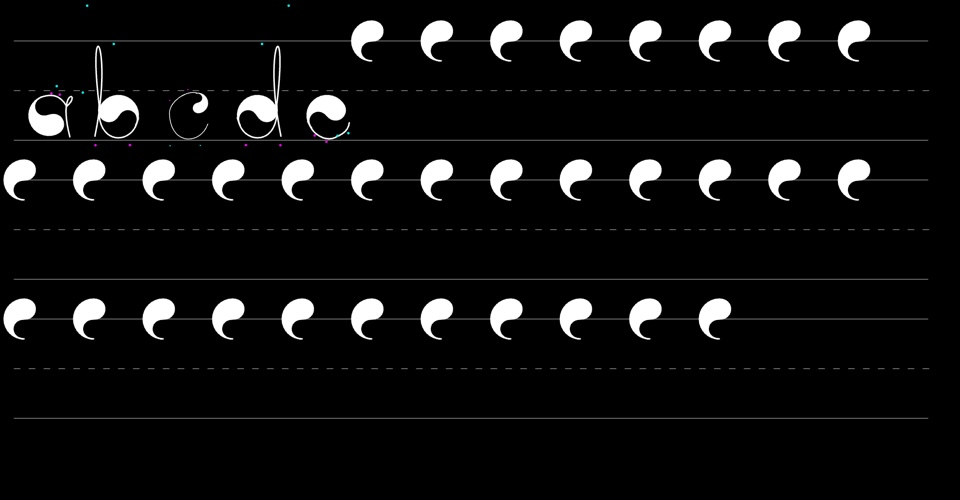
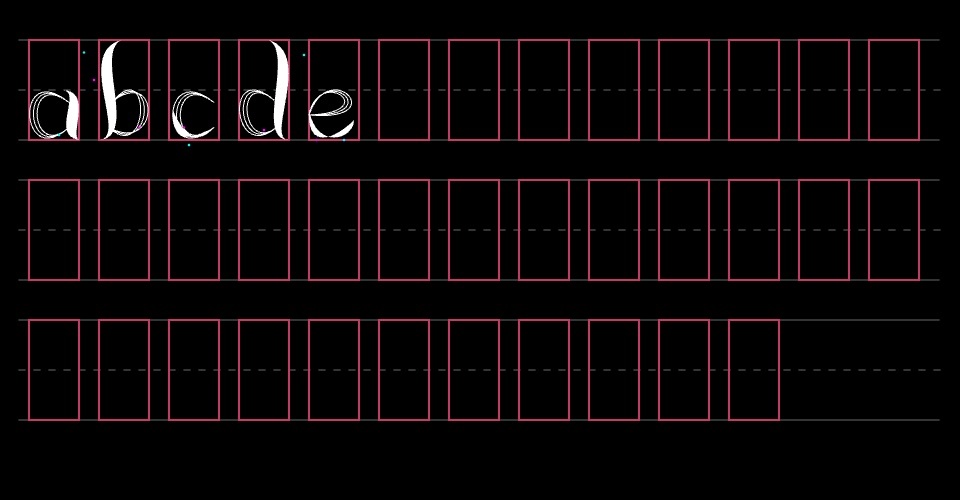
Continued filling alphabet
Add more letters to the layered bezier alphabet. Made a slight change to the stem style.

diff --git a/letters.js b/letters.js
@@ -17,33 +17,37 @@ const alphabet = {
     // "bezierOne3X": 35,
     // "bezierOne3Y": 30,
     // "bezierOne4X": 40,
-    // "bezierOne4Y": 20,
+    // "bezierOne4Y": 15,
 
     // "bezierTwo2X": 55,
     // "bezierTwo2Y": -10,
     // "bezierTwo3X": 30,
     // "bezierTwo3Y": -50,
-    // "bezierTwo4X": 25,
+    // "bezierTwo4X": 20,
     // "bezierTwo4Y": -55
 
-    "AnchorX": 80,
-    "AnchorY": -40,
-    "firstControlX": -50,
-    "firstControlY": -80,
-    "secondControlX": 10,
-    "secondControlY": 175,
+    "oneVar1": 80,
+    "oneVar2": -25,
+    "oneVar3": -30,
+    "oneVar4": -115,
+    "oneVar5": -20,
+    "oneVar6": 115,
+    "oneVar7": 80,
+    "oneVar8": 25,
   
-    "secondAnchorX": 80,
-    "secondAnchorY": -40,
-    "twoFirstControlX": 70,
-    "twoFirstControlY": -75,
-    "twoSecondControlX": 90,
-    "twoSecondControlY": 180
+    "twoVar1": 65,
+    "twoVar2": -50,
+    "twoVar3": 130,
+    "twoVar4": -70,
+    "twoVar5": 60,
+    "twoVar6": 40,
+    "twoVar7": 80,
+    "twoVar8": 50
   },
   "B": {
     // "teardropScaleX": -1,
     // "teardropScaleY": 1,
-    // "teardropX": 50,
+    // "teardropX": 55,
     // "teardropY": 150,
     // "teardropRotate": 60,
 
@@ -51,29 +55,33 @@ const alphabet = {
     // "bezierOne2Y": 50,
     // "bezierOne3X": 75,
     // "bezierOne3Y": -10,
-    // "bezierOne4X": 0,
-    // "bezierOne4Y": -45,
+    // "bezierOne4X": 10,
+    // "bezierOne4Y": -50,
 
-    // "bezierTwo2X": -60,
-    // "bezierTwo2Y": -165,
-    // "bezierTwo3X": -20,
-    // "bezierTwo3Y": -80,
-    // "bezierTwo4X": -110,
-    // "bezierTwo4Y": - 100
+    // "bezierTwo2X": -80,
+    // "bezierTwo2Y": -90,
+    // "bezierTwo3X": -40,
+    // "bezierTwo3Y": -70,
+    // "bezierTwo4X": -115,
+    // "bezierTwo4Y": - 90
 
-    "AnchorX": 10,
-    "AnchorY": 30,
-    "firstControlX": 75,
-    "firstControlY": -180,
-    "secondControlX": 130,
-    "secondControlY": 130,
+    "oneVar1": 30,
+    "oneVar2": -30,
+    "oneVar3": 105,
+    "oneVar4": -115,
+    "oneVar5": 100,
+    "oneVar6": 100,
+    "oneVar7": 20,
+    "oneVar8": 25,
   
-    "secondAnchorX": 10,
-    "secondAnchorY": 30,
-    "twoFirstControlX": 5,
-    "twoFirstControlY": -250,
-    "twoSecondControlX": 35,
-    "twoSecondControlY": -125
+    "twoVar1": 0,
+    "twoVar2": 50,
+    "twoVar3": 80,
+    "twoVar4": 25,
+    "twoVar5": -30,
+    "twoVar6": -125,
+    "twoVar7": 25,
+    "twoVar8": -150
   },
   "C": {
     // "teardropScaleX": .5,
@@ -96,70 +104,91 @@ const alphabet = {
     // "bezierTwo4X": -25,
     // "bezierTwo4Y": -90
 
-    "AnchorX": 95,
-    "AnchorY": 0,
-    "firstControlX": -10,
-    "firstControlY": -155,
-    "secondControlX": -40,
-    "secondControlY": 160,
-    
-    "secondAnchorX": 0,
-    "secondAnchorY": 0,
-    "twoFirstControlX": 0,
-    "twoFirstControlY": 0,
-    "twoSecondControlX": 0,
-    "twoSecondControlY": 0
+    "oneVar1": 90,
+    "oneVar2": -25,
+    "oneVar3": -20,
+    "oneVar4": -115,
+    "oneVar5": -20,
+    "oneVar6": 115,
+    "oneVar7": 90,
+    "oneVar8": 25,
+  
+    "twoVar1": 8,
+    "twoVar2": -10,
+    "twoVar3": 30,
+    "twoVar4": 25,
+    "twoVar5": 40,
+    "twoVar6": 60,
+    "twoVar7": 70,
+    "twoVar8": 25
   },
   "D": {
-    "AnchorX": 90,
-    "AnchorY": 25,
-    "firstControlX": 25,
-    "firstControlY": -180,
-    "secondControlX": -60,
-    "secondControlY": 130,
+    "oneVar1": 70,
+    "oneVar2": -30,
+    "oneVar3": -30,
+    "oneVar4": -115,
+    "oneVar5": -15,
+    "oneVar6": 100,
+    "oneVar7": 75,
+    "oneVar8": 25,
   
-    "secondAnchorX": 90,
-    "secondAnchorY": 25,
-    "twoFirstControlX": 95,
-    "twoFirstControlY": -250,
-    "twoSecondControlX": 65,
-    "twoSecondControlY": -125
+    "twoVar1": 100,
+    "twoVar2": 50,
+    "twoVar3": 50,
+    "twoVar4": 30,
+    "twoVar5": 130,
+    "twoVar6": -120,
+    "twoVar7": 40,
+    "twoVar8": -150
     
     // "teardropScaleX": 1,
     // "teardropScaleY": 1,
-    // "teardropX": 50,
+    // "teardropX": 45,
     // "teardropY": 150,
     // "teardropRotate": 60,
 
-    // "bezierOne2X": 40,
+    // "bezierOne2X": 35,
     // "bezierOne2Y": 50,
-    // "bezierOne3X": 75,
-    // "bezierOne3Y": -10,
-    // "bezierOne4X": 0,
-    // "bezierOne4Y": -45,
+    // "bezierOne3X": 70,
+    // "bezierOne3Y": 0,
+    // "bezierOne4X": 30,
+    // "bezierOne4Y": -40,
 
-    // "bezierTwo2X": -160,
-    // "bezierTwo2Y": -165,
-    // "bezierTwo3X": -120,
-    // "bezierTwo3Y": -80,
-    // "bezierTwo4X": 60,
-    // "bezierTwo4Y": -20
+    // "bezierTwo2X": -10,
+    // "bezierTwo2Y": -75,
+    // "bezierTwo3X": -75,
+    // "bezierTwo3Y": -95,
+    // "bezierTwo4X": -105,
+    // "bezierTwo4Y": -90
   },
 
   "E": {
-    "AnchorX": 5,
-    "AnchorY": -10,
-    "firstControlX": 90,
-    "firstControlY": -120,
-    "secondControlX": 120,
-    "secondControlY": 60,
+    "oneVar1": 0,
+    "oneVar2": 0,
+    "oneVar3": 150,
+    "oneVar4": -5,
+    "oneVar5": 20,
+    "oneVar6": -100,
+    "oneVar7": 0,
+    "oneVar8": 0,
     
-    "secondAnchorX": 5,
-    "secondAnchorY": -10,
-    "twoFirstControlX": 120,
-    "twoFirstControlY": -150,
-    "twoSecondControlX": 100,
-    "twoSecondControlY": 175
+    "twoVar1": 0,
+    "twoVar2": -10,
+    "twoVar3": 15,
+    "twoVar4": 50,
+    "twoVar5": 70,
+    "twoVar6": 50,
+    "twoVar7": 70,
+    "twoVar8": 10
+
+    // "twoVar1": 100,
+    // "twoVar2": 20,
+    // "twoVar3": 100,
+    // "twoVar4": 50,
+    // "twoVar5": 15,
+    // "twoVar6": 50,
+    // "twoVar7": -20,
+    // "twoVar8": -10
 
     // "teardropScaleX": 1,
     // "teardropScaleY": 1,
@@ -334,6 +363,20 @@ const alphabet = {
     // "teardropX": 75,
     // "teardropY": 125,
     // "teardropRotate": 120
+
+    // "AnchorX": 80,
+    // "AnchorY": -10,
+    // "firstControlX": -20,
+    // "firstControlY": 30,
+    // "secondControlX": 5,
+    // "secondControlY": -115,
+    
+    // "secondAnchorX": 25,
+    // "secondAnchorY": 20,
+    // "twoFirstControlX": 75,
+    // "twoFirstControlY": -60,
+    // "twoSecondControlX": 105,
+    // "twoSecondControlY": 125
   },
   "T": {
     // "teardropScaleX": -.5,
@@ -343,11 +386,11 @@ const alphabet = {
     // "teardropRotate": 240
 
     // "AnchorX": 50,
-    // "AnchorY": -70,
+    // "AnchorY": -50,
     // "firstControlX": -150,
-    // "firstControlY": -80,
+    // "firstControlY": -100,
     // "secondControlX": 200,
-    // "secondControlY": -80,
+    // "secondControlY": -75,
 
     // "secondAnchorX": 50,
     // "secondAnchorY": -140,

diff --git a/draw_letters.js b/draw_letters.js
@@ -19,34 +19,45 @@ const spacing = 10;
  * from (0,0) to (100, 200)
  */
 function drawLetter(letterData) {
-  color/stroke setup
   stroke(255);
   strokeWeight(2);
   noFill();
 
-  let firstBezierAnchorX = 0 + letterData["AnchorX"];
-  let firstBezierAnchorY = 150 + letterData["AnchorY"];
-  let firstBezierControlX = 0 + letterData["firstControlX"];
-  let firstBezierControlY = 150 + letterData["firstControlY"];
-  let secondBezierControlX = 0 + letterData["secondControlX"];
-  let secondBezierControlY = 150 + letterData["secondControlY"];
+  let bezierOneX1 = 0 + letterData["oneVar1"];
+  let bezierOneY1 = 150 + letterData["oneVar2"];
+  let bezierOneX2 = 0 + letterData["oneVar3"];
+  let bezierOneY2 = 150 + letterData["oneVar4"];
+  let bezierOneX3 = 0 + letterData["oneVar5"];
+  let bezierOneY3 = 150 + letterData["oneVar6"];
+  let bezierOneX4 = 0 + letterData["oneVar7"];
+  let bezierOneY4 = 150 + letterData["oneVar8"];
  
-  let twoFirstBezierAnchorX = 0 + letterData["secondAnchorX"];
-  let twoFirstBezierAnchorY = 150 + letterData["secondAnchorY"];
-  let twoFirstBezierControlX = 0 + letterData["twoFirstControlX"];
-  let twoFirstBezierControlY = 150 + letterData["twoFirstControlY"];
-  let twoSecondBezierControlX = 0 + letterData["twoSecondControlX"];
-  let twoSecondBezierControlY = 150 + letterData["twoSecondControlY"];
+  let bezierTwoX1 = 0 + letterData["twoVar1"];
+  let bezierTwoY1 = 150 + letterData["twoVar2"];
+  let bezierTwoX2 = 0 + letterData["twoVar3"];
+  let bezierTwoY2 = 150 + letterData["twoVar4"];
+  let bezierTwoX3 = 0 + letterData["twoVar5"];
+  let bezierTwoY3 = 150 + letterData["twoVar6"];
+  let bezierTwoX4 = 0 + letterData["twoVar7"];
+  let bezierTwoY4 = 150 + letterData["twoVar8"]
 
-  bezier(firstBezierAnchorX, firstBezierAnchorY, firstBezierControlX, firstBezierControlY, secondBezierControlX, secondBezierControlY, firstBezierAnchorX, firstBezierAnchorY);
-  bezier(firstBezierAnchorX, firstBezierAnchorY, firstBezierControlX + spacing, firstBezierControlY + spacing, secondBezierControlX + spacing, secondBezierControlY - 2 * spacing, firstBezierAnchorX, firstBezierAnchorY);
-  bezier(firstBezierAnchorX, firstBezierAnchorY, firstBezierControlX + 2 * spacing, firstBezierControlY + 2 * spacing, secondBezierControlX + 2 * spacing, secondBezierControlY - 4 * spacing, firstBezierAnchorX, firstBezierAnchorY);
+  bezier(bezierOneX1, bezierOneY1, bezierOneX2, bezierOneY2, bezierOneX3, bezierOneY3, bezierOneX4, bezierOneY4);
+  bezier(bezierOneX1, bezierOneY1, bezierOneX2 + spacing, bezierOneY2 + spacing, bezierOneX3 + spacing, bezierOneY3 - spacing, bezierOneX4, bezierOneY4);
+  bezier(bezierOneX1, bezierOneY1, bezierOneX2 + 2 * spacing, bezierOneY2 + 2 * spacing, bezierOneX3 + 2 * spacing, bezierOneY3 - 2 * spacing, bezierOneX4, bezierOneY4);
 
-  bezier(twoFirstBezierAnchorX, twoFirstBezierAnchorY, twoFirstBezierControlX, twoFirstBezierControlY, twoSecondBezierControlX, twoSecondBezierControlY, twoFirstBezierAnchorX, twoFirstBezierAnchorY);
-  bezier(twoFirstBezierAnchorX, twoFirstBezierAnchorY, twoFirstBezierControlX + spacing, twoFirstBezierControlY + spacing, twoSecondBezierControlX + spacing, twoSecondBezierControlY - 2 * spacing, twoFirstBezierAnchorX, twoFirstBezierAnchorY);
-  bezier(twoFirstBezierAnchorX, twoFirstBezierAnchorY, twoFirstBezierControlX + 2 * spacing, twoFirstBezierControlY + 2 * spacing, twoSecondBezierControlX + 2 * spacing, twoSecondBezierControlY - 4 * spacing, twoFirstBezierAnchorX, twoFirstBezierAnchorY);  
+  noStroke();
+  fill(255);
+  beginShape();
+  vertex(bezierTwoX1, bezierTwoY1);
+  bezierVertex(bezierTwoX2, bezierTwoY2 + 2 * spacing, bezierTwoX3 + 2 * spacing, bezierTwoY3, bezierTwoX4 + 2 * spacing, bezierTwoY4);
+  bezierVertex(bezierTwoX3 - 2 * spacing, bezierTwoY3, bezierTwoX2 - 2 * spacing, bezierTwoY2  + 2 * spacing, bezierTwoX1, bezierTwoY1);
+  endShape();
 
-
+  strokeWeight(5);
+  stroke(255, 0, 255);
+  point(bezierTwoX2, bezierTwoY2);
+  stroke(0, 255, 255);
+  point(bezierTwoX3, bezierTwoY3);
 
   // angleMode(DEGREES);
   // let teardropSizeX = letterData["teardropScaleX"];
@@ -83,11 +94,11 @@ function drawLetter(letterData) {
   // bezierVertex(-30, 0, -30, 40, 0, 40);
   // endShape();
   // stroke(255);
-  // strokeWeight(3);
+  // strokeWeight(5);
   // noFill();
   // // line(-8, 38, 50, 100)
   // // beginShape();
-  // vertex(-5, 40);
+  // vertex(0, 40);
   // bezierVertex(one2X, one2Y, one3X, one3Y, one4X, one4Y);
   // bezierVertex(two2X, two2Y, two3X, two3Y, two4X, two4Y);
   // // bezierVertex(c, 40, 40, c, 40, 0);
